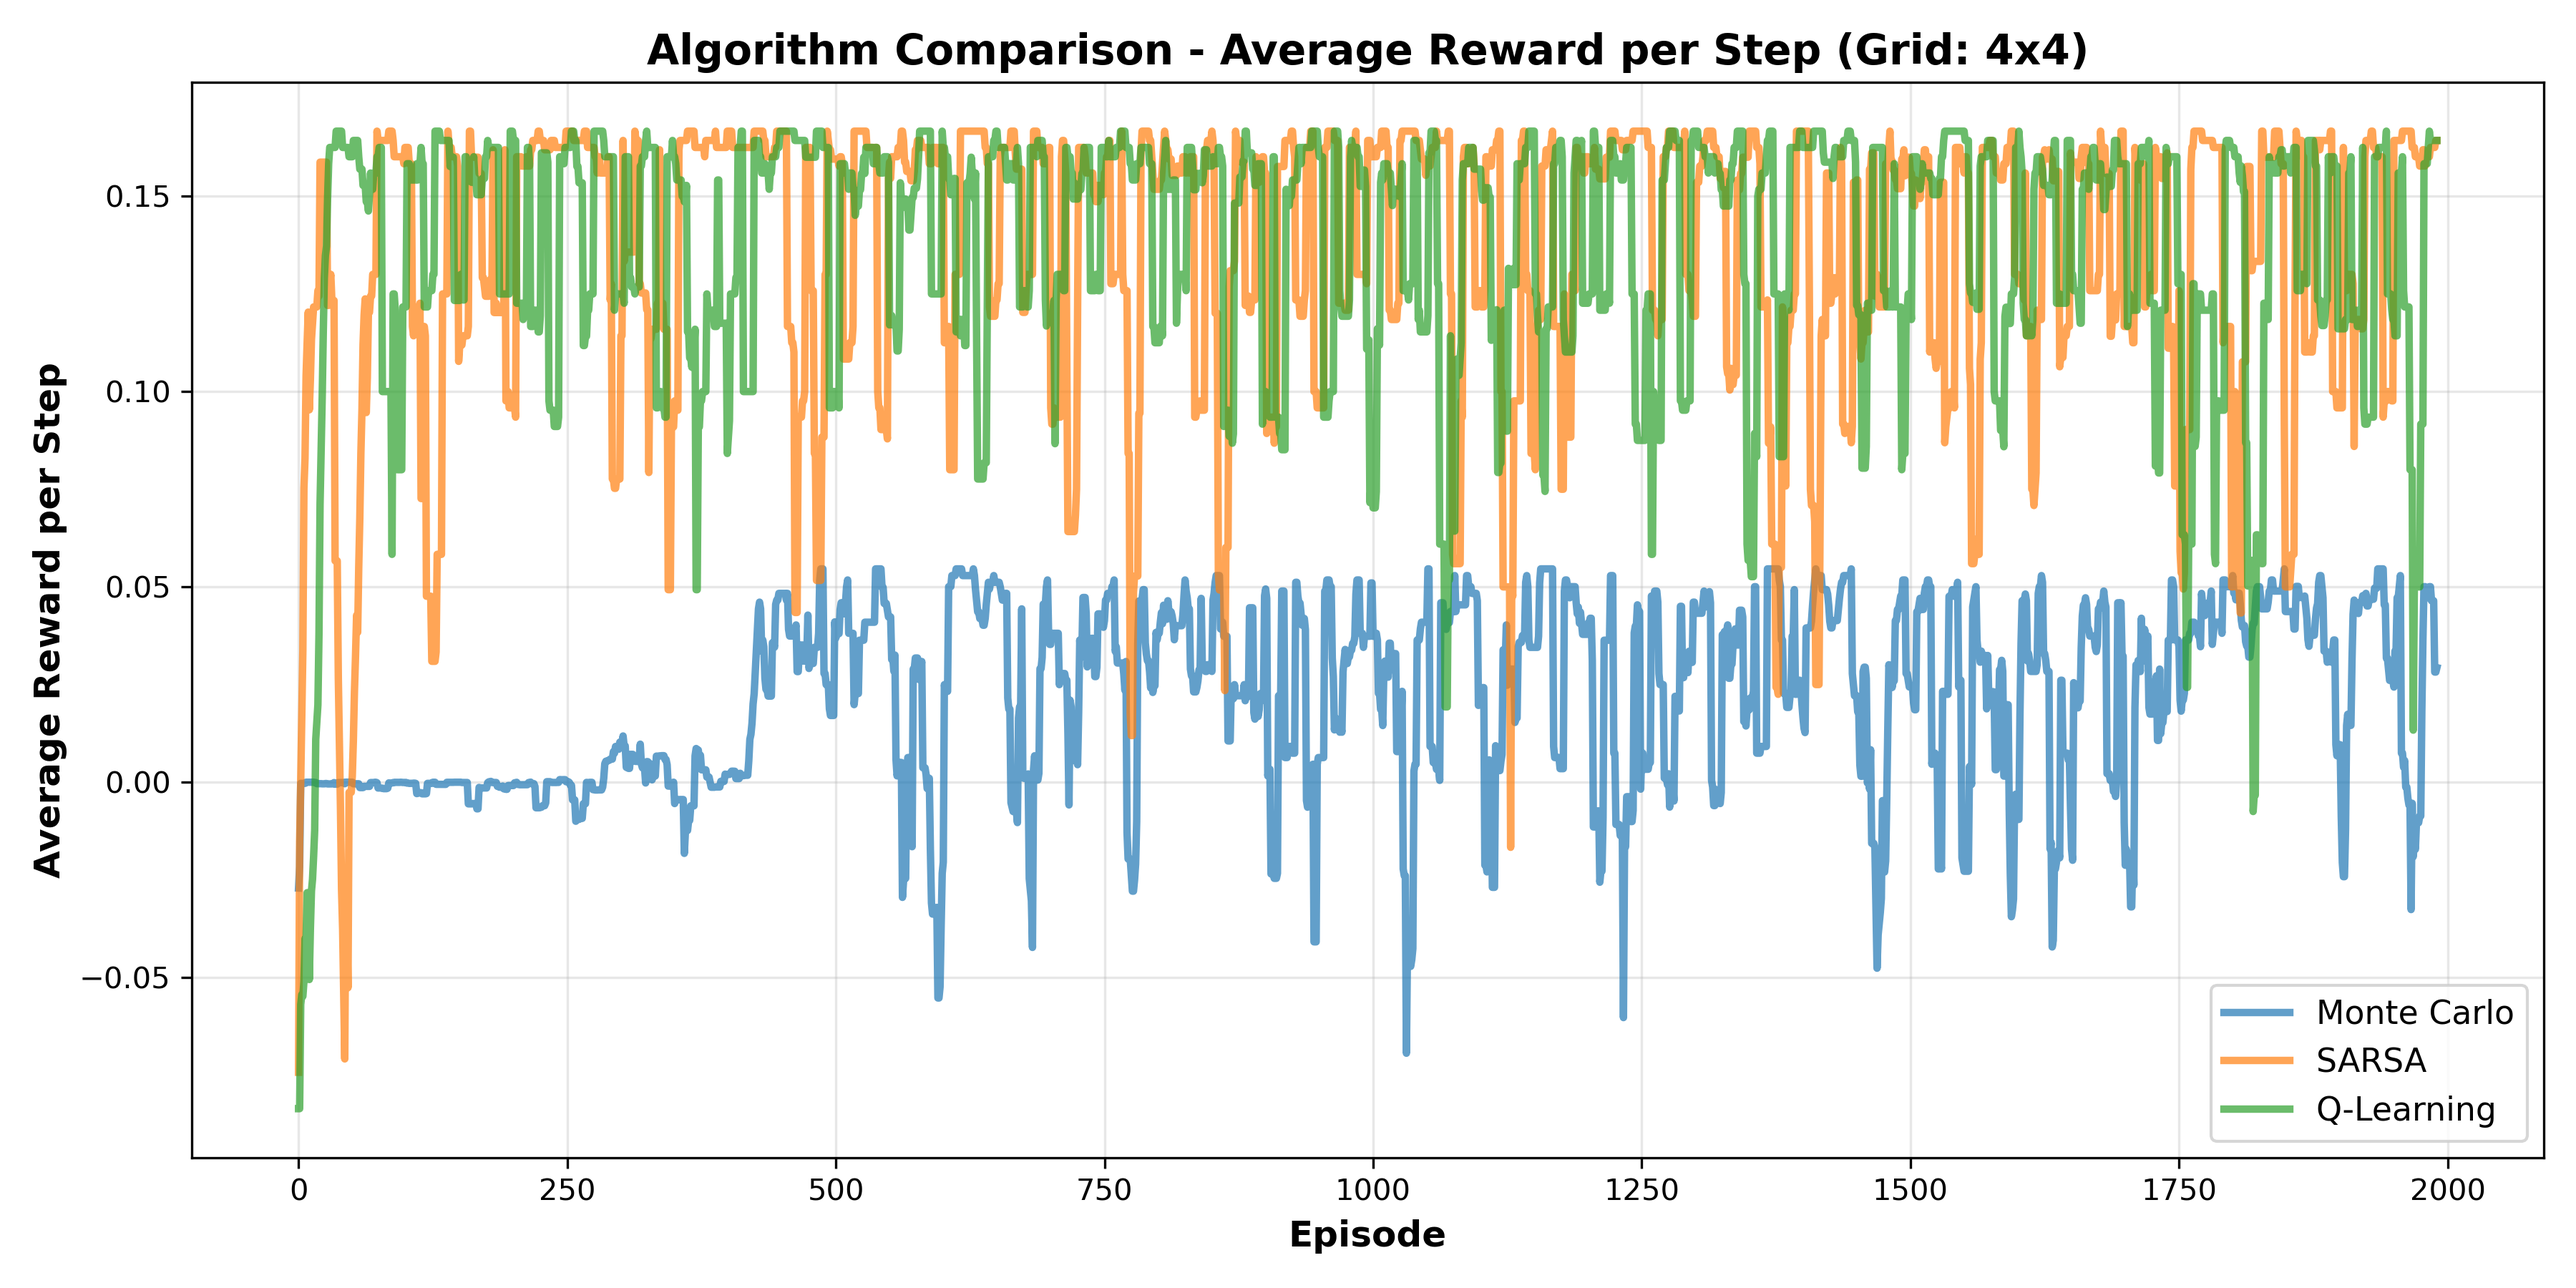
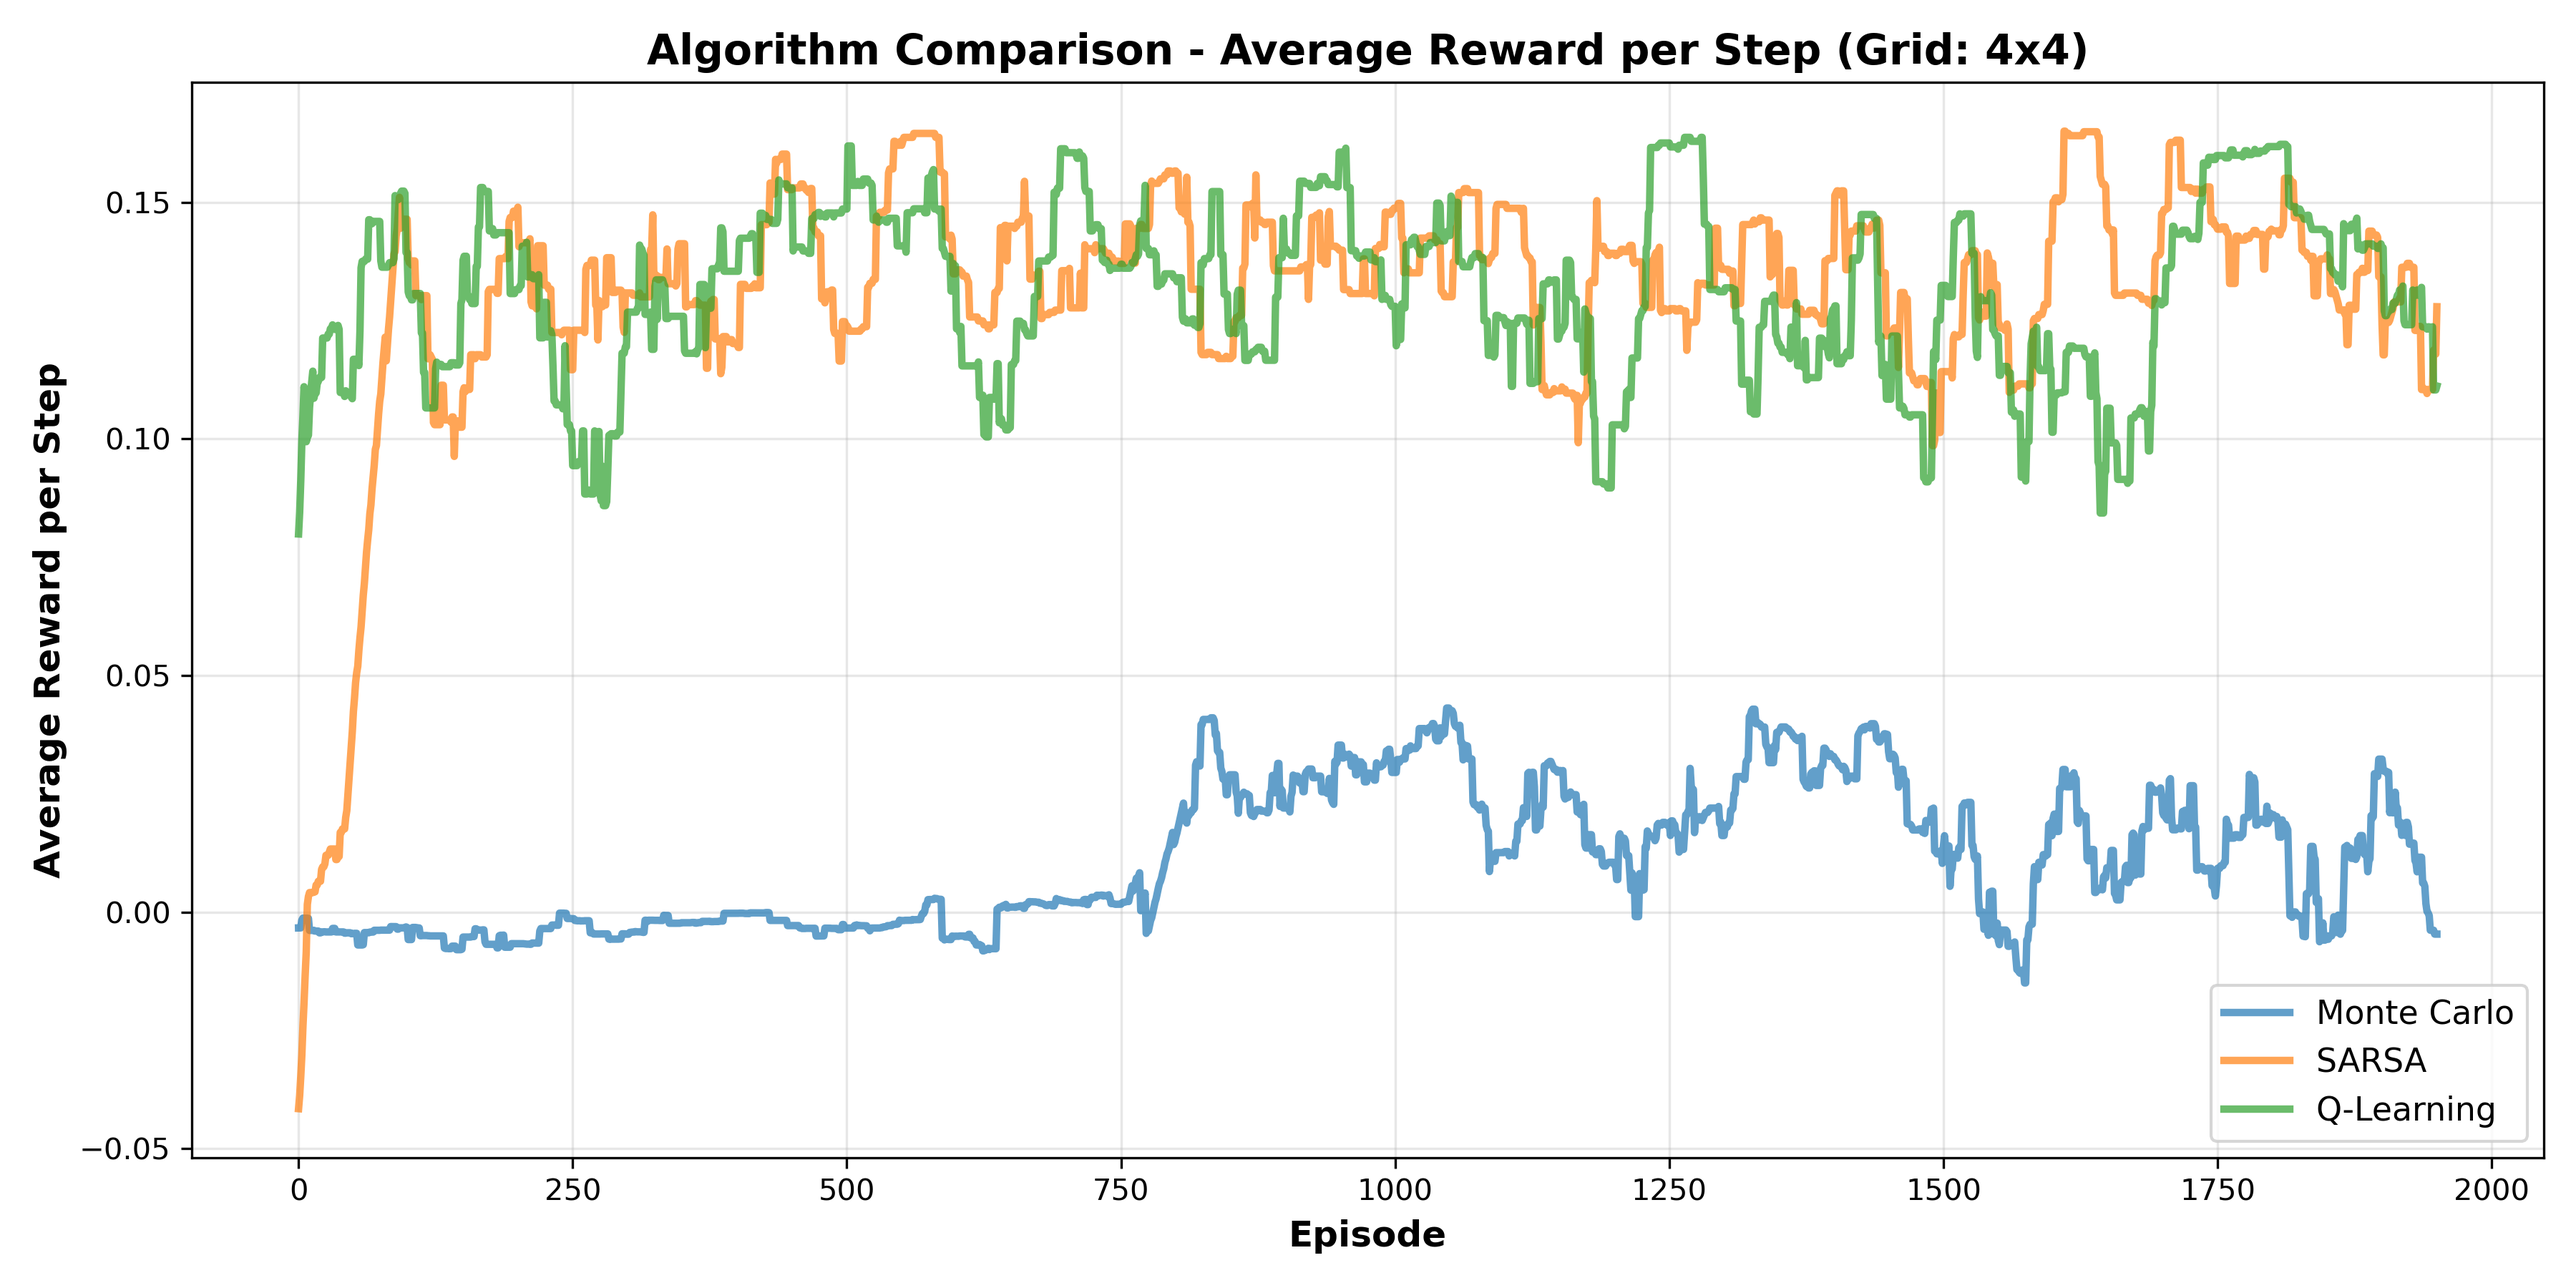
Increase moving average window size to 50 for smoother plots

diff --git a/algorithm_comparison.py b/algorithm_comparison.py
@@ -108,7 +108,7 @@ def plot_metrics(all_stats, results_dir):
     # Prepare data
     algorithms = list(all_stats.keys())
     colors = {'Monte Carlo': '#1f77b4', 'SARSA': '#ff7f0e', 'Q-Learning': '#2ca02c'}
-    window_size = 10  # Moving average window size
+    window_size = 50  # Moving average window size
     
     # Plot 1: total steps vs episode
     fig, ax = plt.subplots(figsize=(12, 6))

diff --git a/parameter.py b/parameter.py
@@ -1,8 +1,8 @@
 import os
 
 # environment parameters
-GRID_SIZE = 10 # size of map
-NUM_EPISODES = 8000  # number of episodes for training (2000 for 4x4, 8000 for 10x10)
+GRID_SIZE = 4 # size of map
+NUM_EPISODES = 2000  # number of episodes for training (2000 for 4x4, 8000 for 10x10)
 
 # tuning parameter ranges
 LEARNING_RATE_VALUES = [0.05, 0.1, 0.2, 0.3]  # Learning rates to test
